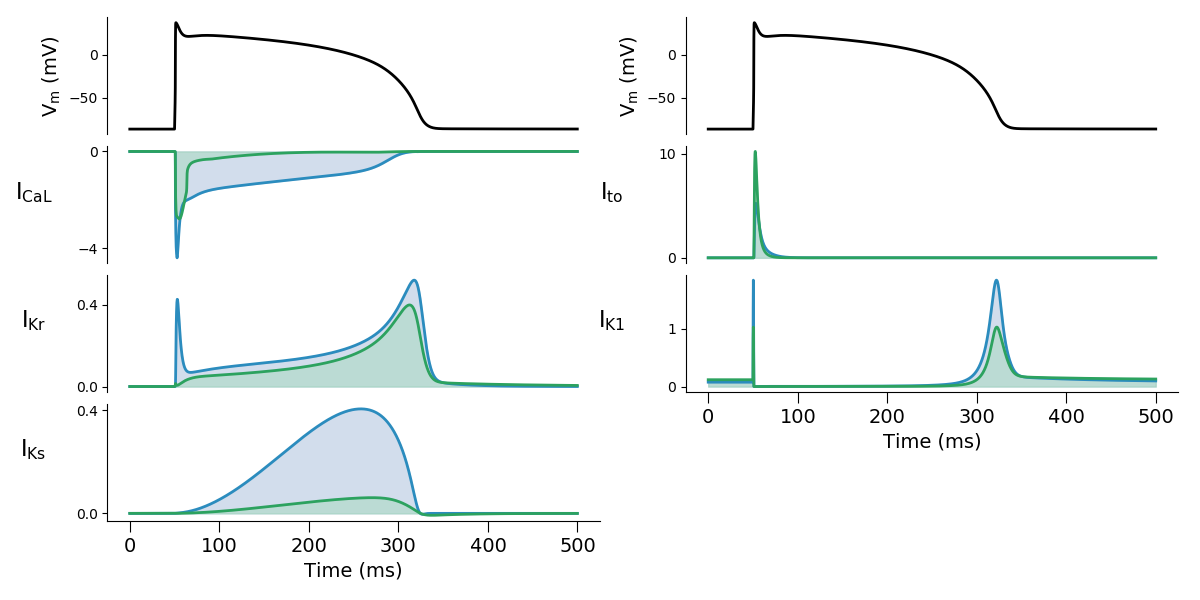
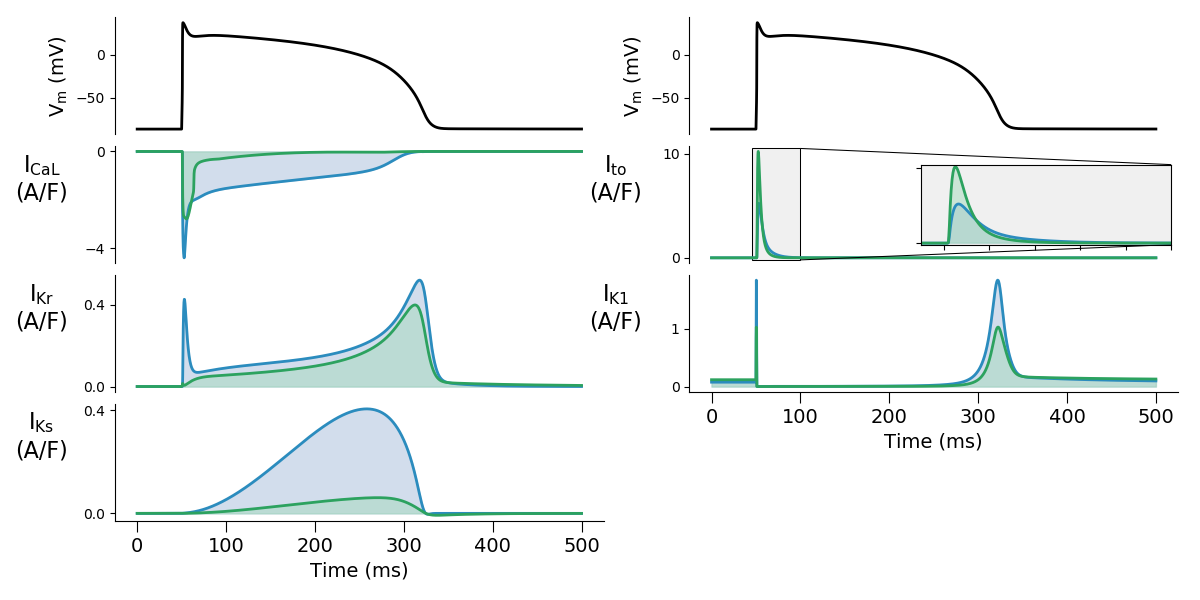
Add Ito inset

diff --git a/action-potential-models/plot-differences.py b/action-potential-models/plot-differences.py
@@ -7,6 +7,7 @@ import numpy as np
 import matplotlib
 matplotlib.use('Agg')
 import matplotlib.pyplot as plt
+from mpl_toolkits.axes_grid1.inset_locator import inset_axes, mark_inset
 
 import model as m
 import protocol as p
@@ -85,7 +86,7 @@ for i, c in enumerate(plot_parameters):
     # Change y-ticks
     yticks = ax.get_yticks()
     ax.set_yticks([yticks[1], yticks[-2]])
-    ax.set_ylabel(plot_currents[i][0], rotation=0, fontsize=16)
+    ax.set_ylabel(plot_currents[i][0] + '\n(A/F)', rotation=0, fontsize=16)
     ax.get_yaxis().set_label_coords(-0.15, 0.5)
     # Change frame and x-ticks
     if i not in [2, 4]:
@@ -108,6 +109,26 @@ for i, c in enumerate(plot_parameters):
         # frame off
         ax.spines['top'].set_visible(False)
         ax.spines['right'].set_visible(False)
+
+    # Zoom in for Ito
+    if c == 'ito.s':
+        axins = inset_axes(ax, width=2.5, height=0.8, loc='center right',
+                axes_kwargs={"facecolor" : "#f0f0f0"})
+        axins.plot(times, currents_tnnp[n], c='#2b8cbe', lw=2)
+        axins.fill_between(times, 0, currents_tnnp[n], color='#a6bddb',
+                alpha=0.5)
+        axins.plot(times, currents_fink[n], c='#2ca25f', lw=2)
+        axins.fill_between(times, 0, currents_fink[n], color='#a6dbbd',
+                alpha=0.5)
+        axins.set_xlim([45, 100])
+        axins.set_ylim([-0.2, 10.5])
+        #axins.yaxis.get_major_locator().set_params(nbins=3)
+        #axins.xaxis.get_major_locator().set_params(nbins=3)
+        axins.set_xticklabels([])
+        axins.set_yticklabels([])
+        pp, p1, p2 = mark_inset(ax, axins, loc1=1, loc2=4, fc="none", lw=0.75,
+                ec='k')
+        pp.set_fill(True); pp.set_facecolor("#f0f0f0")
 
 grid.tight_layout(fig, pad=1.0, rect=(0.01, 0.01, 1, 1))
 grid.update(wspace=0.175, hspace=0.1)
